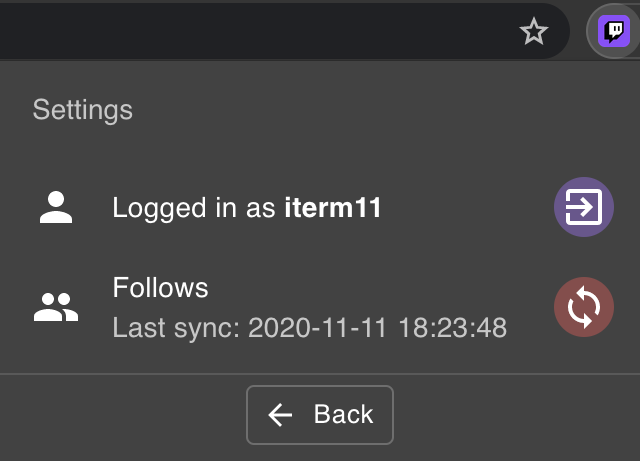
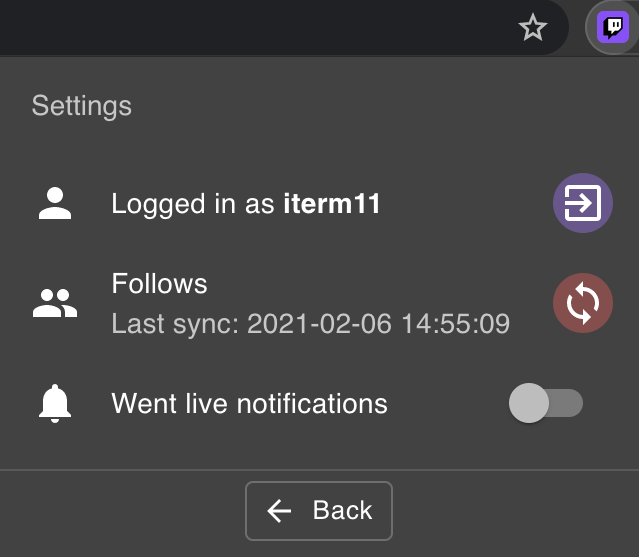
Updat README and add changelogs page with notifications information

diff --git a/src/infrastructure/localStorage/localStorageService.ts b/src/infrastructure/localStorage/localStorageService.ts
@@ -1,5 +1,5 @@
 import { getStorageData, removeStorageData, setStorageData } from '../../utils/localStorage';
-import { FOLLOWS_KEY, LAST_FOLLOWS_UPDATE_KEY, NOTIFICATIONS_ENABLE_KEY, TOKEN_KEY } from '../../domain/utils/contants';
+import { FOLLOWS_KEY, LAST_FOLLOWS_UPDATE_KEY, NOTIFICATIONS_ENABLE_KEY, TOKEN_KEY } from '../../domain/utils/localStorageContants';
 import { GetUserFollow } from '../../domain/infrastructure/twitch/twitch';
 
 /**

diff --git a/src/views/LiveStreamPage/LiveStreamList/LiveStreamListItem/LiveStreamListItem.tsx b/src/views/LiveStreamPage/LiveStreamList/LiveStreamListItem/LiveStreamListItem.tsx
@@ -43,7 +43,7 @@ export const LiveStreamListItem = (elem: FollowedLivestream) => {
             dense
         >
             <ListItemAvatar>
-                <Avatar src={elem.profile_image_url}></Avatar>
+                <Avatar src={elem.profile_image_url}/>
             </ListItemAvatar>
             <ListItemText
                 primary={elem.display_name}

diff --git a/README.md b/README.md
@@ -35,11 +35,24 @@ The extension is available on [Chrome Store](https://chrome.google.com/webstore/
 
 ## Settings
 
-![Settings](./assets/settings.png "Options menu")
-
 In this page you can:
  - Switch Twitch account
  - Refresh the stored follows list
+ - Enable/Disable _just went live_ notifications
+ 
+![Settings](./assets/settings_rsz.png "Settings menu")
+![Settings With notifications enbaled](./assets/settings_enabled_rsz.png "Settings With notifications enbaled")
+
+### Notifications
+ - MacOS
+ 
+![Notification](./assets/notification_mac_rsz.png "Notification")
+
+- Windows
+
+![Notification](./assets/notification_mac_rsz.png "Notification")
+
+ 
 
 
 ## Available Scripts

diff --git a/changelogs/2_2_0.md b/changelogs/2_2_0.md
@@ -1,0 +1,24 @@
+# Twitch Live Extension v2.2.0
+
+Just went live notifications are now available on Twitch Live extension.
+
+In order to enable this new feature:
+- Open the extension
+
+![Extension](../assets/extension.png "Extension")
+
+- Click on Settings 
+
+![Settings](../assets/settings_rsz.png "Settings")
+
+- And enable it
+
+![Settings](../assets/settings_enabled_rsz.png "Settings")
+
+Every time, a streamer you follow goes live, 
+you will receive a browser notification that link you to the live stream
+
+![Notification](../assets/notification_mac_rsz.png "Notification")
+
+
+

diff --git a/CHANGELOG.md b/CHANGELOG.md
@@ -1,4 +1,13 @@
 # Changelog
+
+### 2.2.0 
+
+Fixes and Functionality:
+
+- Added "Just went live" notifications feature
+- Added background file to get token and set alarm
+- On extension update, open the changelog page with the new features
+
 ### 2.1.2 (January 6, 2021)
 
 Fixes and Functionality:
